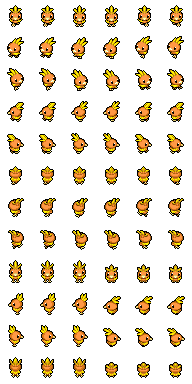
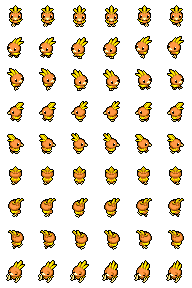
Añadido el personaje de Anacleto (Mudkip) con todas sus animaciones y modificamos el personaje de Mila (Torchic) para que cuando esté quieto se duerma

diff --git a/MilaAnacleto/Entidad.cpp b/MilaAnacleto/Entidad.cpp
@@ -28,24 +28,7 @@ void Entidad::actualizar(sf::Time deltaTime) {
 
 	int filaIdle = -1;
 	if (!seMueve && relojInactividad.getElapsedTime().asSeconds() > 5.0f) {
-		switch (direccionActual) {
-		case Arriba: case ArribaDerecha: case ArribaIzquierda:
-			filaIdle = 11;
-			break;
-
-		case Derecha: case AbajoDerecha:
-			filaIdle = 10;
-			break;
-
-		case Izquierda: case AbajoIzquierda:
-			filaIdle = 9;
-			break;
-
-		case Abajo: default:
-			filaIdle = 8;
-			break;
-		}
-		tiempoPorFrame = 0.25f;
+		filaIdle = 8;
 	}
 	else {
 		tiempoPorFrame = 0.15f;

diff --git a/MilaAnacleto/Anacleto.h b/MilaAnacleto/Anacleto.h
@@ -1,0 +1,8 @@
+#pragma once
+#include "Entidad.h"
+
+class Anacleto : public Entidad {
+public:
+	// Constructor
+	Anacleto();
+};
